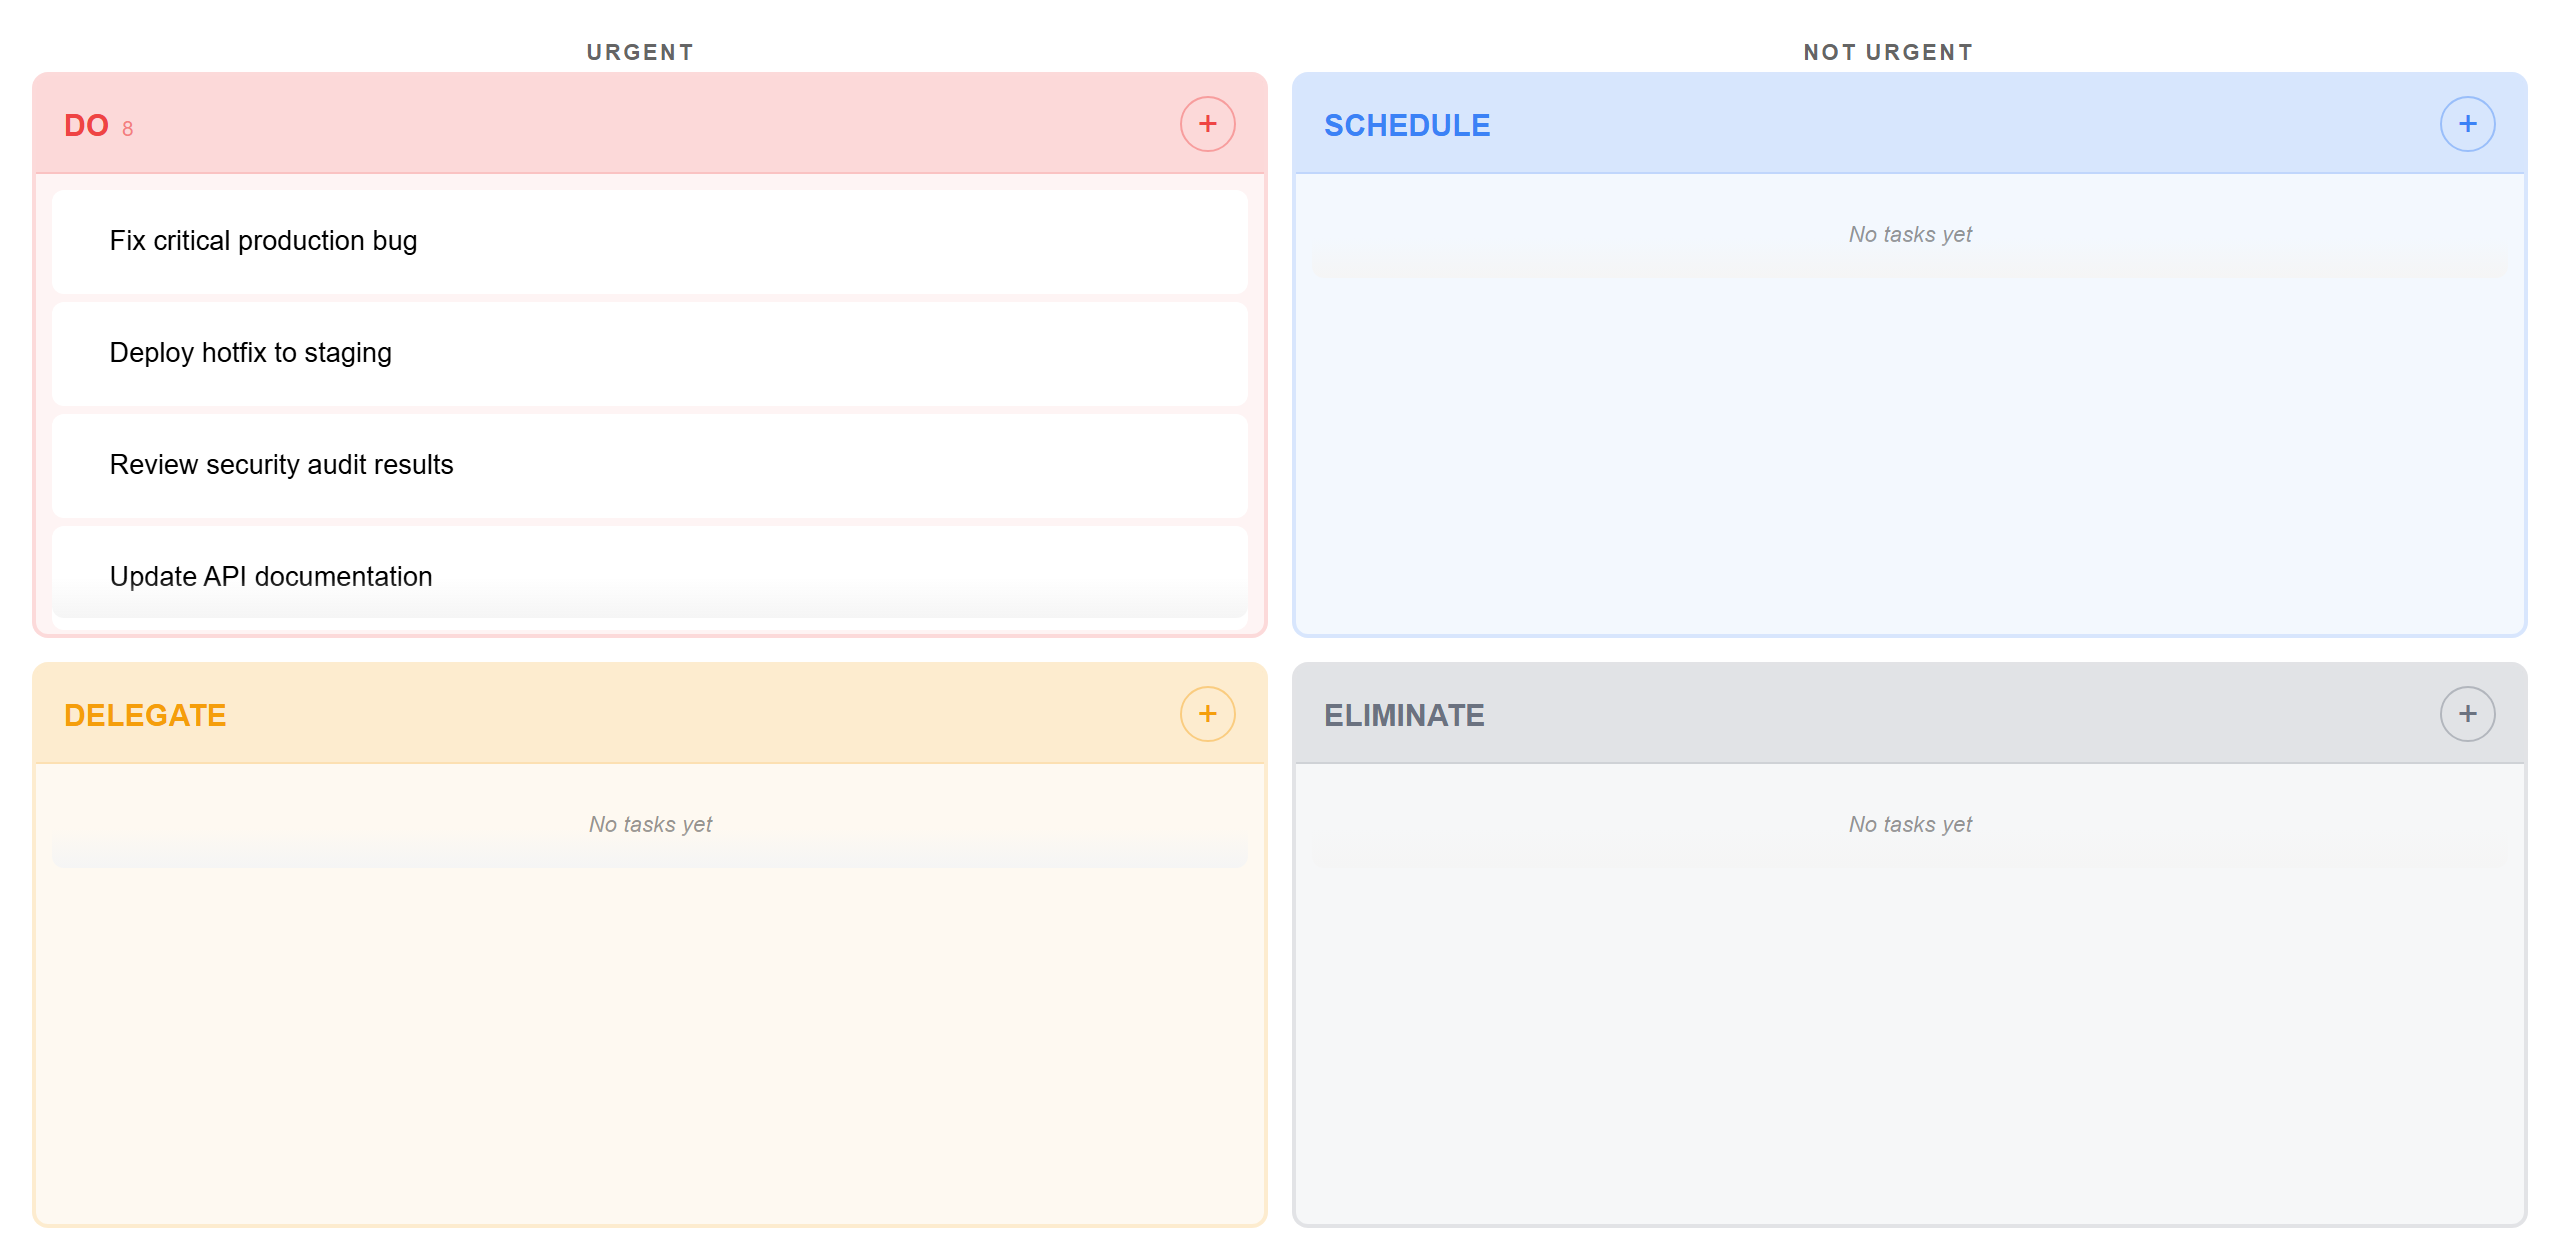
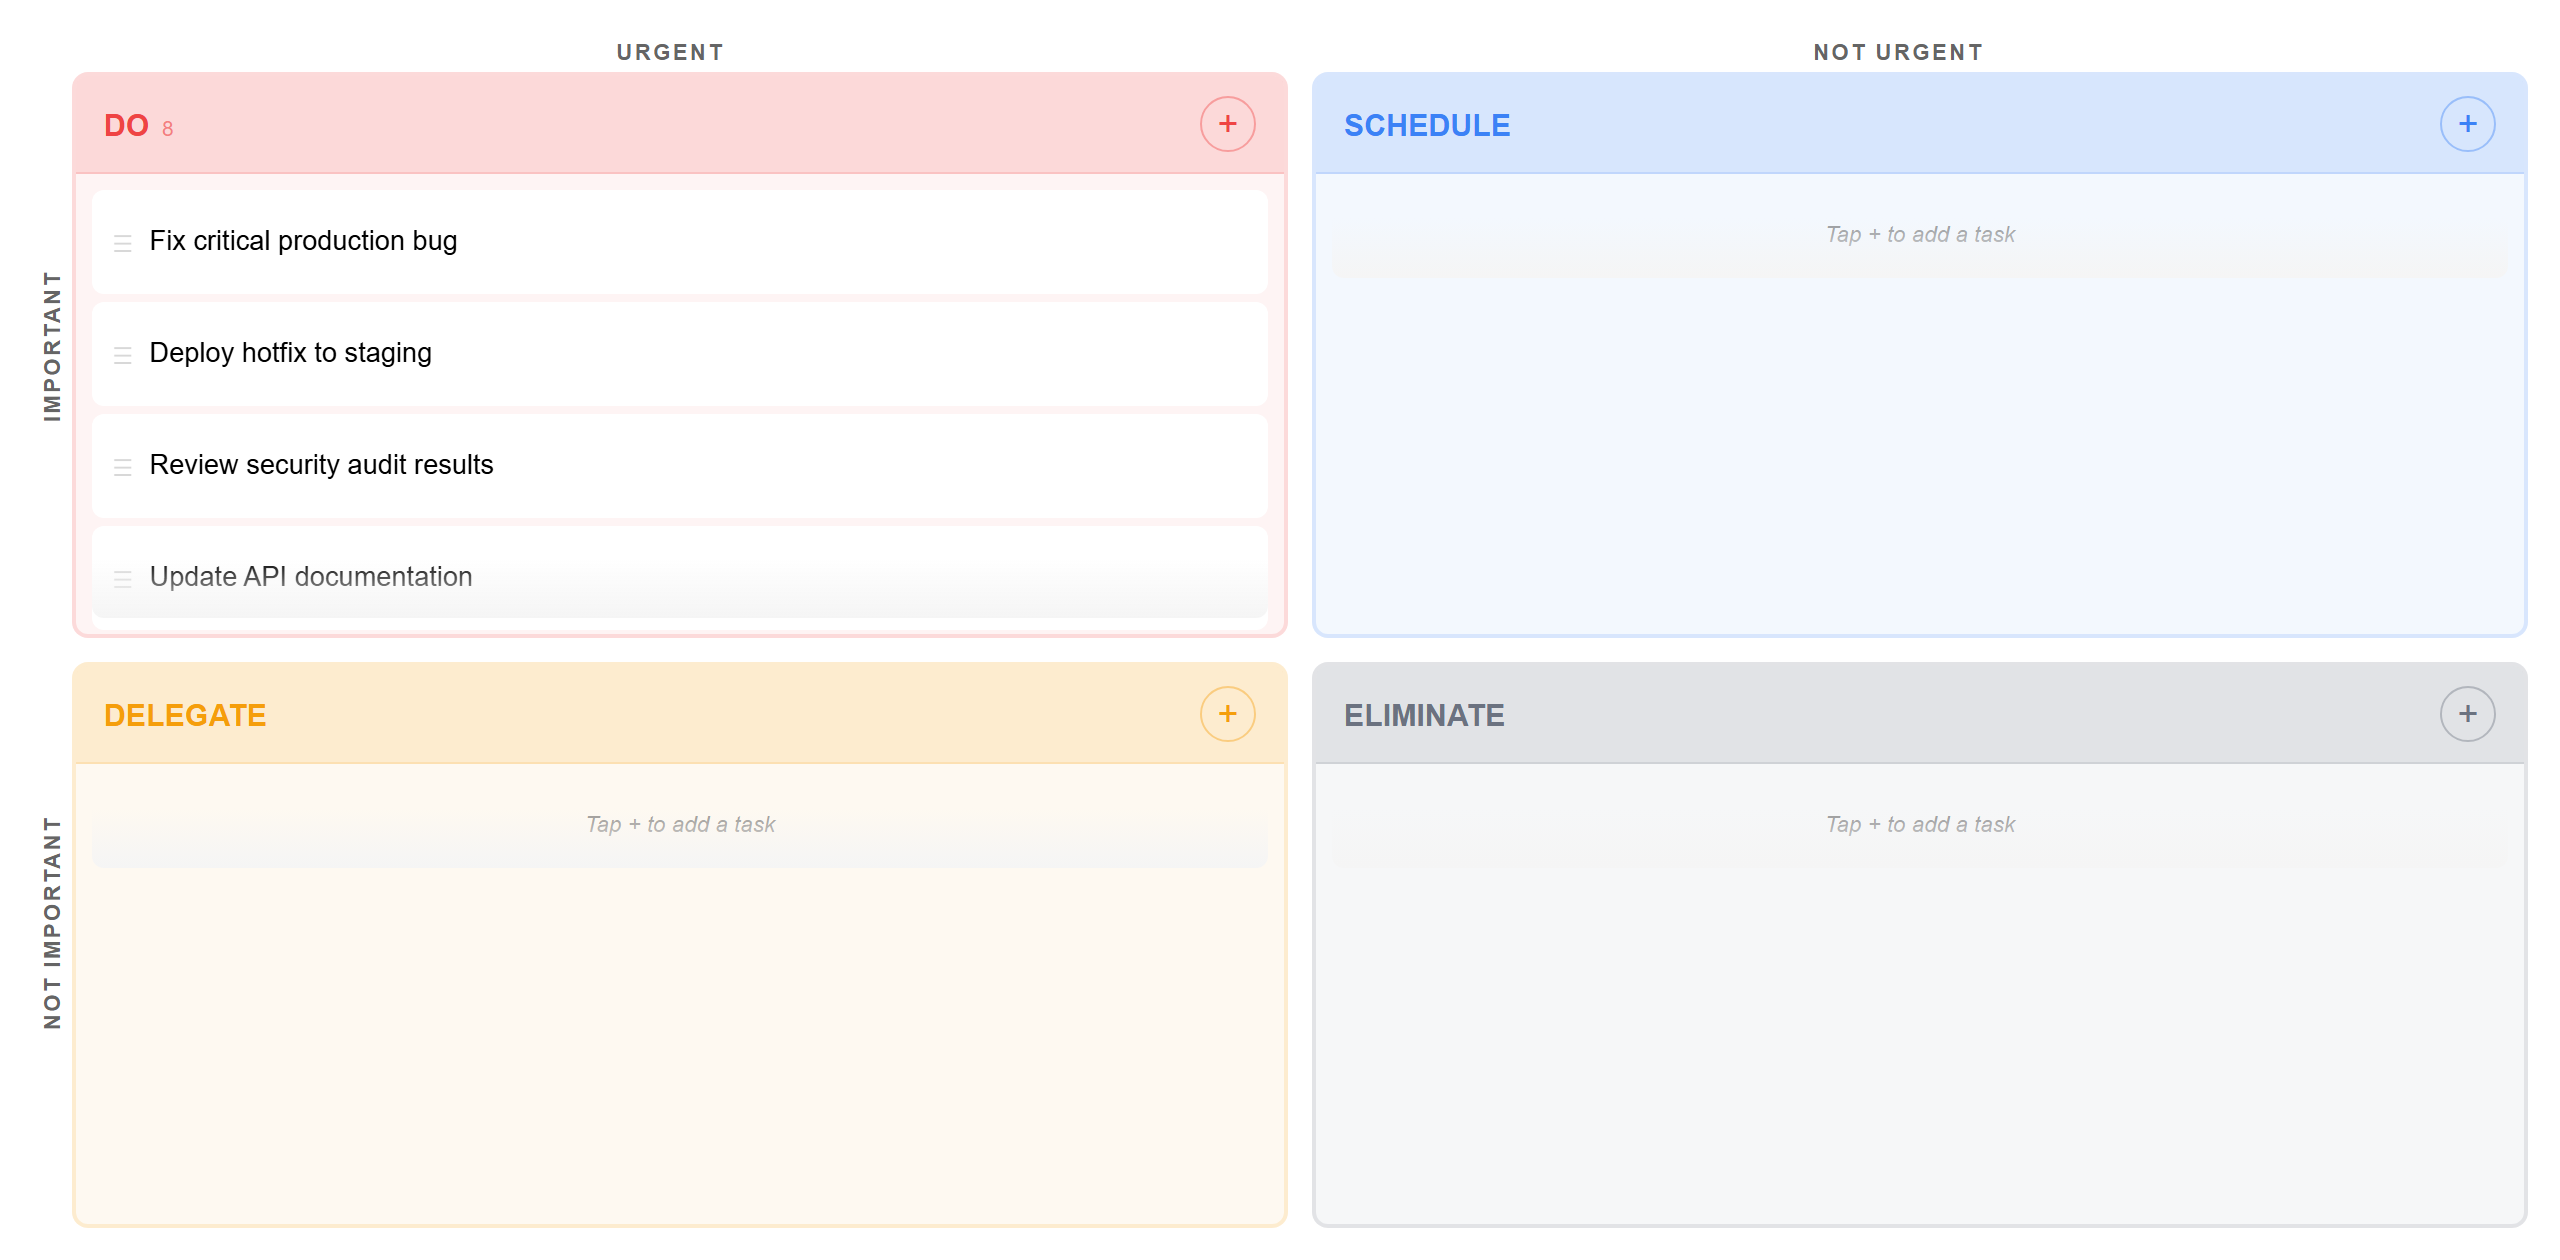
Add importance axis label, improve interaction hints and dark mode
Implement 6 design evaluation recommendations:
- Vertical "IMPORTANT / NOT IMPORTANT" axis label on desktop (CSS grid layout, hidden on mobile)
- Task content hover highlight to hint at click-to-edit
- Drag handles visible at 15% opacity by default
- Brighter dark mode Q3 orange for better contrast
- Taller overflow fade (30px) for clearer scroll signaling
- Actionable empty state text ("Tap + to add a task")

diff --git a/tests/fixtures/matrix.html b/tests/fixtures/matrix.html
@@ -43,6 +43,10 @@
 				<span class="em-axis-left">URGENT</span>
 				<span class="em-axis-right">NOT URGENT</span>
 			</div>
+			<div class="em-axis-label em-axis-importance">
+				<span class="em-axis-bottom">NOT IMPORTANT</span>
+				<span class="em-axis-top">IMPORTANT</span>
+			</div>
 			<div class="em-grid">
 
 				<!-- Q1: Do -->
@@ -54,7 +58,7 @@
 						<button class="em-add-btn" aria-label="Add task to Do">+</button>
 					</div>
 					<div class="em-task-list">
-						<div class="em-empty-state">No tasks yet</div>
+						<div class="em-empty-state">Tap + to add a task</div>
 					</div>
 					<div class="em-add-form em-hidden">
 						<input type="text" class="em-task-input" placeholder="Task title...">
@@ -78,7 +82,7 @@
 						<button class="em-add-btn" aria-label="Add task to Schedule">+</button>
 					</div>
 					<div class="em-task-list">
-						<div class="em-empty-state">No tasks yet</div>
+						<div class="em-empty-state">Tap + to add a task</div>
 					</div>
 					<div class="em-add-form em-hidden">
 						<input type="text" class="em-task-input" placeholder="Task title...">
@@ -102,7 +106,7 @@
 						<button class="em-add-btn" aria-label="Add task to Delegate">+</button>
 					</div>
 					<div class="em-task-list">
-						<div class="em-empty-state">No tasks yet</div>
+						<div class="em-empty-state">Tap + to add a task</div>
 					</div>
 					<div class="em-add-form em-hidden">
 						<input type="text" class="em-task-input" placeholder="Task title...">
@@ -126,7 +130,7 @@
 						<button class="em-add-btn" aria-label="Add task to Eliminate">+</button>
 					</div>
 					<div class="em-task-list">
-						<div class="em-empty-state">No tasks yet</div>
+						<div class="em-empty-state">Tap + to add a task</div>
 					</div>
 					<div class="em-add-form em-hidden">
 						<input type="text" class="em-task-input" placeholder="Task title...">
@@ -153,6 +157,10 @@
 			<div class="em-axis-label em-axis-urgency">
 				<span class="em-axis-left">URGENT</span>
 				<span class="em-axis-right">NOT URGENT</span>
+			</div>
+			<div class="em-axis-label em-axis-importance">
+				<span class="em-axis-bottom">NOT IMPORTANT</span>
+				<span class="em-axis-top">IMPORTANT</span>
 			</div>
 			<div class="em-grid">
 
@@ -196,7 +204,7 @@
 						</div>
 						<button class="em-add-btn">+</button>
 					</div>
-					<div class="em-task-list"><div class="em-empty-state">No tasks yet</div></div>
+					<div class="em-task-list"><div class="em-empty-state">Tap + to add a task</div></div>
 					<div class="em-add-form em-hidden"></div>
 				</div>
 				<div class="em-quadrant em-quadrant-q3 em-quadrant-empty" data-quadrant="q3">
@@ -206,7 +214,7 @@
 						</div>
 						<button class="em-add-btn">+</button>
 					</div>
-					<div class="em-task-list"><div class="em-empty-state">No tasks yet</div></div>
+					<div class="em-task-list"><div class="em-empty-state">Tap + to add a task</div></div>
 					<div class="em-add-form em-hidden"></div>
 				</div>
 				<div class="em-quadrant em-quadrant-q4 em-quadrant-empty" data-quadrant="q4">
@@ -216,7 +224,7 @@
 						</div>
 						<button class="em-add-btn">+</button>
 					</div>
-					<div class="em-task-list"><div class="em-empty-state">No tasks yet</div></div>
+					<div class="em-task-list"><div class="em-empty-state">Tap + to add a task</div></div>
 					<div class="em-add-form em-hidden"></div>
 				</div>
 
@@ -232,6 +240,10 @@
 			<div class="em-axis-label em-axis-urgency">
 				<span class="em-axis-left">URGENT</span>
 				<span class="em-axis-right">NOT URGENT</span>
+			</div>
+			<div class="em-axis-label em-axis-importance">
+				<span class="em-axis-bottom">NOT IMPORTANT</span>
+				<span class="em-axis-top">IMPORTANT</span>
 			</div>
 			<div class="em-grid">
 
@@ -296,7 +308,7 @@
 						</div>
 						<button class="em-add-btn">+</button>
 					</div>
-					<div class="em-task-list"><div class="em-empty-state">No tasks yet</div></div>
+					<div class="em-task-list"><div class="em-empty-state">Tap + to add a task</div></div>
 					<div class="em-add-form em-hidden"></div>
 				</div>
 				<div class="em-quadrant em-quadrant-q3 em-quadrant-empty" data-quadrant="q3">
@@ -306,7 +318,7 @@
 						</div>
 						<button class="em-add-btn">+</button>
 					</div>
-					<div class="em-task-list"><div class="em-empty-state">No tasks yet</div></div>
+					<div class="em-task-list"><div class="em-empty-state">Tap + to add a task</div></div>
 					<div class="em-add-form em-hidden"></div>
 				</div>
 				<div class="em-quadrant em-quadrant-q4 em-quadrant-empty" data-quadrant="q4">
@@ -316,7 +328,7 @@
 						</div>
 						<button class="em-add-btn">+</button>
 					</div>
-					<div class="em-task-list"><div class="em-empty-state">No tasks yet</div></div>
+					<div class="em-task-list"><div class="em-empty-state">Tap + to add a task</div></div>
 					<div class="em-add-form em-hidden"></div>
 				</div>
 
@@ -332,6 +344,10 @@
 			<div class="em-axis-label em-axis-urgency">
 				<span class="em-axis-left">URGENT</span>
 				<span class="em-axis-right">NOT URGENT</span>
+			</div>
+			<div class="em-axis-label em-axis-importance">
+				<span class="em-axis-bottom">NOT IMPORTANT</span>
+				<span class="em-axis-top">IMPORTANT</span>
 			</div>
 			<div class="em-grid">
 

diff --git a/styles.css b/styles.css
@@ -11,31 +11,48 @@
 /* ===== MATRIX WRAPPER ===== */
 .em-matrix-wrapper {
 	flex: 1;
-	display: flex;
-	flex-direction: column;
+	display: grid;
+	grid-template-columns: auto 1fr;
+	grid-template-rows: auto 1fr;
 	min-height: 0;
 	overflow: hidden;
 }
 
 .em-axis-label {
-	display: flex;
-	justify-content: space-around;
 	font-size: 0.7em;
 	text-transform: uppercase;
 	letter-spacing: 0.1em;
 	opacity: 0.6;
 	font-weight: 600;
 	padding: 4px 0;
-	flex-shrink: 0;
+}
+
+.em-axis-urgency {
+	grid-column: 2;
+	grid-row: 1;
+	display: flex;
+	justify-content: space-around;
+}
+
+.em-axis-importance {
+	grid-column: 1;
+	grid-row: 2;
+	writing-mode: vertical-lr;
+	transform: rotate(180deg);
+	display: flex;
+	justify-content: space-around;
+	align-items: center;
+	padding: 0 4px;
 }
 
 /* ===== GRID ===== */
 .em-grid {
+	grid-column: 2;
+	grid-row: 2;
 	display: grid;
 	grid-template-columns: 1fr 1fr;
 	grid-template-rows: 1fr 1fr;
 	gap: 12px;
-	flex: 1;
 	min-height: 0;
 	overflow: hidden;
 }
@@ -188,8 +205,8 @@
 	position: sticky;
 	bottom: 0;
 	display: block;
-	height: 20px;
-	margin-top: -20px;
+	height: 30px;
+	margin-top: -30px;
 	background: linear-gradient(transparent, var(--background-primary-alt, rgba(255, 255, 255, 0.5)));
 	pointer-events: none;
 	border-radius: 0 0 6px 6px;
@@ -220,7 +237,7 @@
 
 .em-task-drag-handle {
 	font-size: 12px;
-	opacity: 0;
+	opacity: 0.15;
 	cursor: grab;
 	flex-shrink: 0;
 	user-select: none;
@@ -234,6 +251,13 @@
 .em-task-content {
 	flex: 1;
 	min-width: 0;
+	cursor: pointer;
+	border-radius: 4px;
+	transition: background 0.15s;
+}
+
+.em-task-content:hover {
+	background: rgba(0, 0, 0, 0.04);
 }
 
 .em-task-title {
@@ -437,9 +461,15 @@
 	}
 
 	.em-matrix-wrapper {
+		display: flex;
+		flex-direction: column;
 		flex: none;
 		min-height: auto;
 		overflow: visible;
+	}
+
+	.em-axis-importance {
+		display: none;
 	}
 
 	.em-grid {
@@ -506,4 +536,18 @@
 /* ===== DARK THEME ===== */
 .theme-dark .em-task:hover {
 	box-shadow: 0 1px 4px rgba(0, 0, 0, 0.3);
+}
+
+.theme-dark .em-task-content:hover {
+	background: rgba(255, 255, 255, 0.06);
+}
+
+.theme-dark .em-quadrant-q3 {
+	background: rgba(245, 158, 11, 0.10);
+	border-color: rgba(245, 158, 11, 0.20);
+}
+
+.theme-dark .em-quadrant-q3 .em-quadrant-header {
+	background: rgba(245, 158, 11, 0.20);
+	border-bottom-color: rgba(245, 158, 11, 0.20);
 }

diff --git a/tests/mobile.spec.ts b/tests/mobile.spec.ts
@@ -143,6 +143,36 @@ test.describe("Desktop layout — overloaded quadrant scrolls", () => {
 	});
 });
 
+test.describe("Axis labels", () => {
+	test.beforeEach(async ({ page }) => {
+		await page.goto(fixtureUrl);
+	});
+
+	test("importance axis label is hidden on mobile", async ({ page, isMobile }) => {
+		test.skip(!isMobile, "Mobile-only test");
+		const display = await page.locator("#empty-state .em-axis-importance").evaluate(
+			(el) => getComputedStyle(el).display
+		);
+		expect(display).toBe("none");
+	});
+
+	test("importance axis label is visible on desktop", async ({ page, isMobile }) => {
+		test.skip(!!isMobile, "Desktop-only test");
+		const box = await page.locator("#populated-state .em-axis-importance").boundingBox();
+		expect(box, "Importance label should have a bounding box").not.toBeNull();
+		expect(box!.width, "Importance label width").toBeGreaterThan(0);
+		expect(box!.height, "Importance label height").toBeGreaterThan(0);
+	});
+
+	test("mobile layout still uses flex column on matrix wrapper", async ({ page, isMobile }) => {
+		test.skip(!isMobile, "Mobile-only test");
+		const display = await page.locator("#empty-state .em-matrix-wrapper").evaluate(
+			(el) => getComputedStyle(el).display
+		);
+		expect(display).toBe("flex");
+	});
+});
+
 test.describe("Mobile layout — scrollable container, no inner clipping", () => {
 	test.beforeEach(async ({ page }) => {
 		await page.goto(fixtureUrl);

diff --git a/src/view.ts b/src/view.ts
@@ -57,6 +57,11 @@ export class EisenhowerMatrixView extends ItemView {
 		urgencyLabel.createSpan({ text: "URGENT", cls: "em-axis-left" });
 		urgencyLabel.createSpan({ text: "NOT URGENT", cls: "em-axis-right" });
 
+		// Importance axis label (vertical)
+		const importanceLabel = matrixWrapper.createDiv({ cls: "em-axis-label em-axis-importance" });
+		importanceLabel.createSpan({ text: "NOT IMPORTANT", cls: "em-axis-bottom" });
+		importanceLabel.createSpan({ text: "IMPORTANT", cls: "em-axis-top" });
+
 		// Grid
 		const grid = matrixWrapper.createDiv({ cls: "em-grid" });
 
@@ -240,7 +245,7 @@ export class EisenhowerMatrixView extends ItemView {
 	}
 
 	private renderEmptyState(listEl: HTMLElement): void {
-		listEl.createDiv({ cls: "em-empty-state", text: "No tasks yet" });
+		listEl.createDiv({ cls: "em-empty-state", text: "Tap + to add a task" });
 	}
 
 	// ==================== TASK ACTIONS ====================

diff --git a/docs/design.md b/docs/design.md
@@ -12,7 +12,7 @@ Plugin (main.ts) ── owns data, CRUD operations, persistence
             │
             └── Types (types.ts) ── interfaces, enums, constants
 
-styles.css ── grid layout, colors, responsive breakpoints
+styles.css ── CSS grid wrapper (dual-axis labels), quadrant colors, responsive breakpoints
 
 tests/
     __mocks__/obsidian.ts ── manual mock for obsidian module
@@ -60,9 +60,11 @@ Unidirectional data flow: User action → View calls Plugin CRUD → Plugin save
 - **Data schema versioning** — `version` field in persisted data for future migrations
 - **3-size type scale** — action (0.95em/700), body (0.85em/400), meta (0.7em/400/60% opacity). No other sizes.
 - **Subtle color system** — RGBA quadrant colors at 6% body / 15% header opacity. Color whispers, doesn't shout. Buttons inherit quadrant color.
-- **Progressive disclosure** — drag handles hidden until hover, mobile empty quadrants collapsed to header-only
+- **Progressive disclosure** — drag handles faintly visible (0.15 opacity), brighten on hover; mobile empty quadrants collapsed to header-only
+- **Dual-axis labels** — desktop uses CSS grid on `.em-matrix-wrapper` (`grid-template-columns: auto 1fr; grid-template-rows: auto 1fr`) to place urgency (horizontal) and importance (vertical, `writing-mode: vertical-lr; rotate(180deg)`) axis labels. Mobile reverts to flex column and hides the importance label.
 
 ## Recent Changes
+- Design evaluation improvements: vertical importance axis label (CSS grid layout), task content hover hint, drag handle default opacity 0.15, dark mode Q3 orange fix, taller overflow fade, actionable empty state text, 3 new Playwright tests
 - Fixed version inconsistencies: package.json synced to 1.0.3, bump script and pre-commit hook now include package.json
 - Added Playwright-based screenshot capture script (`scripts/capture-readme-screenshots.mjs`) for automated README screenshots (4 retina shots: desktop light/dark, overloaded, mobile)
 - Added populated fixture state in `tests/fixtures/matrix.html` with 10 realistic tasks across all quadrants

diff --git a/CHANGELOG.md b/CHANGELOG.md
@@ -4,6 +4,28 @@ All notable changes to this project will be documented in this file.
 
 ---
 
+## [2026-02-15 12:00] - Design Evaluation Improvements
+
+**Changed:**
+- Added vertical "IMPORTANT / NOT IMPORTANT" axis label on desktop (grid layout), hidden on mobile
+- Task content now shows hover highlight to hint at click-to-edit editability
+- Drag handles show at 15% opacity by default (was invisible until hover)
+- Dark mode Q3 (Delegate) orange is brighter and more distinct (was muddy)
+- Overflow fade hint is taller (30px, was 20px) for better scroll signaling
+- Empty state text changed from "No tasks yet" to "Tap + to add a task" for actionable guidance
+- Matrix wrapper converted from flex to CSS grid on desktop for dual-axis label placement
+
+**Added:**
+- 3 new Playwright tests for axis label visibility (hidden on mobile, visible on desktop, mobile uses flex layout)
+
+**Files:**
+- `styles.css`
+- `src/view.ts`
+- `tests/fixtures/matrix.html`
+- `tests/mobile.spec.ts`
+
+---
+
 ## [2026-02-13 16:00] - Fix Version Inconsistencies + README Screenshot Refresh
 
 **Fixed:**

diff --git a/WORKLOG.md b/WORKLOG.md
@@ -23,3 +23,4 @@ Track of development iterations and time estimates.
 | 2026-02-14 01:30 | ~30min | Design overhaul — reduced color opacity, removed subtitles/title/footer, quadrant-colored buttons, 3-size type scale, hidden drag handles, collapsed mobile empties, date toggle, overflow fade hint |
 | 2026-02-14 02:00 | ~5min | Removed "Add date" toggle — date picker always visible in add-task form |
 | 2026-02-13 16:00 | ~15min | Fixed version inconsistencies (package.json 1.0.3, bump script, pre-commit), added populated fixture, Playwright screenshot script, rewrote README with new screenshots |
+| 2026-02-15 12:00 | ~15min | Design evaluation improvements — vertical importance axis label, task edit/drag hover hints, dark Q3 orange fix, taller overflow fade, actionable empty state text, 3 new Playwright tests |
